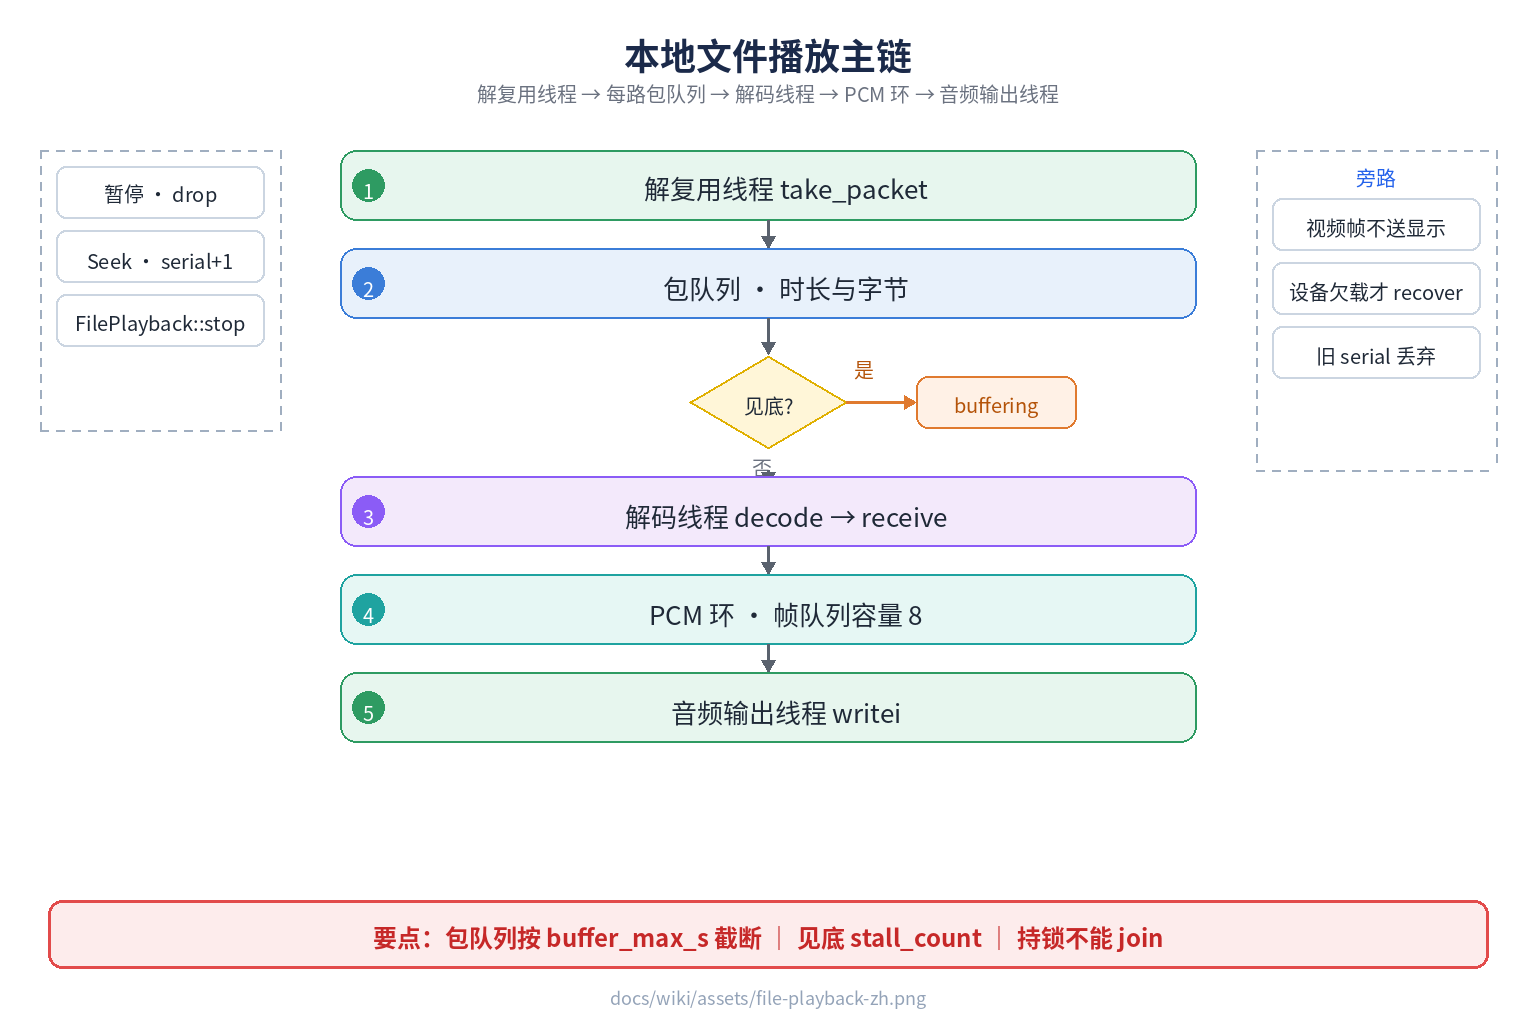
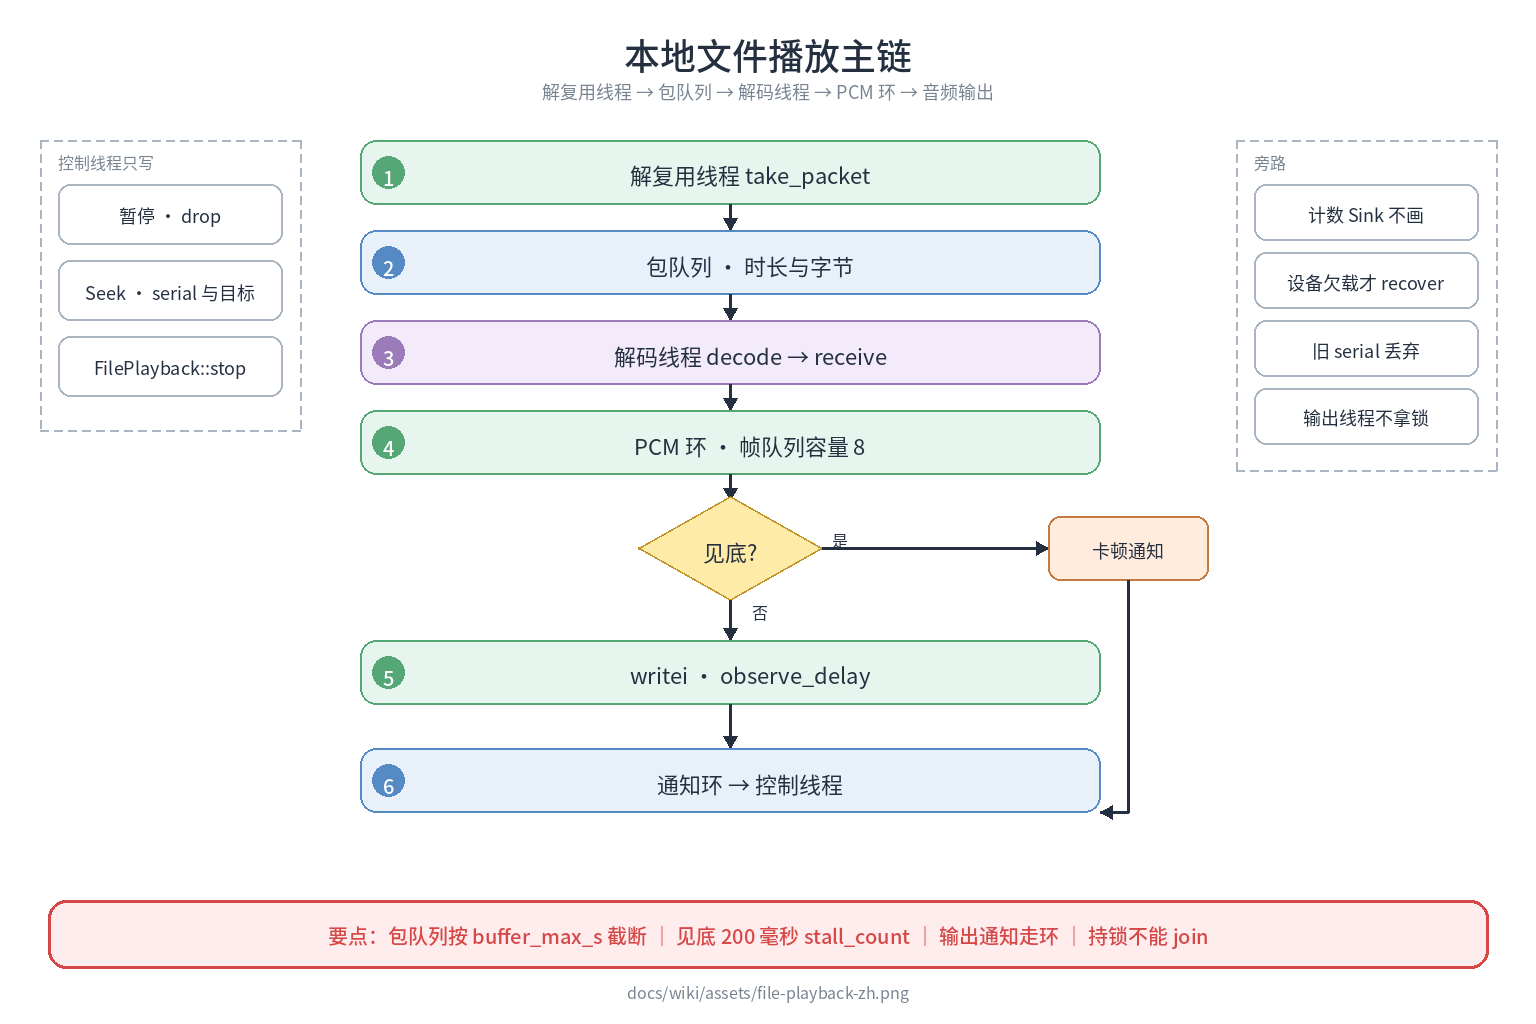
按注入后的管线改写 README 和主链详流。
见底画在输出线程上，空 URI 在进入本地路径判断之前失败。

diff --git a/docs/wiki/pages/file-playback.html b/docs/wiki/pages/file-playback.html
@@ -1,14 +1,14 @@
 <section class="page" data-id="file-playback" data-group="流程" data-title="本地播放">
   <div class="card">
     <h2>本地文件播放</h2>
-    <p class="lede">管线为 <code>FileSource</code> → <code>FFmpegDemuxer</code> → 每路包队列 → <code>FFmpegSwDecoder</code> → PCM 环或帧队列 → 音频输出线程。打开在会话 IO 线程上。控制线程只改标志。</p>
+    <p class="lede">管线为 <code>FileSource</code> → <code>FFmpegDemuxer</code> → 每路包队列 → <code>FFmpegSwDecoder</code> → PCM 环或帧队列 → 音频输出线程。打开在会话 IO 线程上。<code>Player::io_main</code> 注入 <code>AudioMasterClock</code> 和 <code>AlsaSink</code>；没有音频流时改为 <code>MonotonicClock</code>。控制线程只写 <code>serial</code> 和目标位置。</p>
     <h3>1. 打开与队列</h3>
-    <p><code>FFmpegDemuxer</code> 使用 <code>AVFMT_FLAG_CUSTOM_IO</code>，字节来自 <code>DataSource</code>。解复用线程按流把包放进队列。时长上限是预设的 <code>buffer_max_s</code>，字节上限是这个秒数乘以 1 MiB/s。视频帧队列容量 8。包和帧带 <code>serial</code>。存在音频流时必须打开 ALSA PCM 设备，输出为交错 S16。视频帧不送显示 Sink。</p>
+    <p><code>FFmpegDemuxer</code> 使用 <code>AVFMT_FLAG_CUSTOM_IO</code>，字节来自 <code>DataSource</code>。解复用线程按流把包放进队列。时长上限是预设的 <code>buffer_max_s</code>，字节上限是这个秒数乘以 1 MiB/s。视频帧队列容量 8。包和帧带 <code>serial</code>。存在音频流时必须打开 ALSA PCM 设备，输出为交错 S16。视频帧交给 <code>CountingVideoSink</code>，只计数，不画。</p>
     <h3>2. 主时钟与流结束</h3>
-    <p>音频输出线程从 PCM 环取出样本再写入设备。音频主时钟为 <code>origin_us + (written_frames - snd_pcm_delay) * 1000000 / rate</code>。首次写入成功调用 <code>media_first_frame</code>。EOF 之后取出重采样残余样本，再 <code>snd_pcm_drain</code>。drain 期间若暂停或 Seek 已经置位，不发送 EOS。</p>
+    <p>音频输出线程从 PCM 环取出样本再写入设备。主时钟只在 <code>AudioMasterClock::observe_delay</code> 计算，公式是 <code>origin_us + (written_frames - delay_frames) * 1000000 / rate</code>。首次写入成功后，输出线程把首帧写入通知环，控制线程调用 <code>media_first_frame</code>。EOF 之后取出重采样残余样本，再 <code>snd_pcm_drain</code>。drain 期间若暂停或 Seek 已经置位，不发送 EOS。输出线程看到新 <code>serial</code> 后清零写入帧数和首帧标记。</p>
     <h3>3. 传输控制</h3>
-    <p>暂停调用 <code>AlsaSink::drop</code>。设备欠载才 <code>snd_pcm_recover</code>。包队列见底时 <code>state</code> 变为 <code>buffering</code>，<code>stall_count</code> 加一。<code>FilePlayback::stop</code> 不能在持有 <code>Player::mu_</code> 时执行，因为音频输出线程回调 <code>media_first_frame</code> 需要同一把锁。</p>
-    <p class="src"><code>FilePlayback::open</code> · <code>run</code> · <code>stop</code> · <code>engine/src/file_playback.cpp</code></p>
+    <p>暂停调用 <code>AudioSink::drop</code>。设备欠载才 <code>snd_pcm_recover</code>。包队列见底时输出线程写入卡顿通知，控制线程把 <code>state</code> 变为 <code>buffering</code>，<code>stall_count</code> 加一。<code>FilePlayback::stop</code> 不能在持有 <code>Player::mu_</code> 时执行，因为解复用线程调用 <code>media_failed</code> 需要同一把锁。输出线程不拿这把锁。</p>
+    <p class="src"><code>FilePlayback::open</code> · <code>audio_out_main</code> · <code>stop</code> · <code>engine/src/file_playback.cpp</code></p>
   </div>
   <figure class="figure">
     <img src="assets/file-playback-zh.png" alt="本地文件播放主链" width="1536" height="1024" />

diff --git a/docs/wiki/pages/session-entry.html b/docs/wiki/pages/session-entry.html
@@ -3,7 +3,7 @@
     <h2>会话入口</h2>
     <p class="lede"><code>legato_player_load</code> 经 <code>Engine::post</code> 入队后返回。返回值 0 表示命令已受理，不表示媒体已经打开。打开在会话 IO 线程上执行，不持有 <code>Engine::mu_</code> 或 <code>Player::mu_</code>。</p>
     <h3>1. 分发</h3>
-    <p>控制线程上的 <code>Player::begin_load_locked</code> 读取 <code>legato_media_item.uri</code>。<code>corpus:</code> 先由 <code>resolve_corpus</code> 核对内容哈希，再排队打开，时钟为虚拟媒体时钟。<code>file://</code> 与无 scheme 的路径经 <code>local_file_path</code> 排队打开，时钟为音频主时钟。其它带 <code>://</code> 的 scheme 将 <code>state</code> 置为 <code>error</code>，错误名 <code>unsupported_scheme</code>，<code>message</code> 为「这个协议还不能播」。</p>
+    <p>控制线程上的 <code>Player::begin_load_locked</code> 读取 <code>legato_media_item.uri</code>。<code>corpus:</code> 先由 <code>resolve_corpus</code> 核对内容哈希，再排队打开，时钟为虚拟媒体时钟。<code>file://</code> 与无 scheme 的路径经 <code>local_file_path</code> 排队打开。<code>Player::io_main</code> 注入 <code>AudioMasterClock</code>；打开后没有音频流则改为 <code>MonotonicClock</code>。其它带 <code>://</code> 的 scheme 将 <code>state</code> 置为 <code>error</code>，错误名 <code>unsupported_scheme</code>，<code>message</code> 为「这个协议还不能播」。</p>
     <h3>2. 打开结果</h3>
     <p>排队时 <code>state=loading</code>，并发出 <code>state_changed</code>。IO 线程调用 <code>FilePlayback::open</code>。完成后控制线程执行 <code>finish_open_job</code>：成功则在 <code>playing_intent_</code> 已置位时 <code>start</code>，并发送 <code>command_done</code>；失败则 <code>state=error</code>。空 URI、超长路径分别对应「uri 为空」和「路径太长」。<code>legato_player_release</code> 只标记并投递回收，join 在回收线程上，调用线程立即返回。事件环不覆盖 <code>error</code>、<code>ended</code>、<code>first_frame</code>、<code>state_changed</code>。Seek 与同一属性的 <code>property_changed</code> 各自合并。<code>observe</code> 由控制线程按间隔轮询。</p>
     <p class="src"><code>Player::begin_load_locked</code> · <code>local_file_path</code> · <code>resolve_corpus</code> · <code>engine/src/player.cpp</code></p>

diff --git a/docs/wiki/pages/deterministic.html b/docs/wiki/pages/deterministic.html
@@ -1,9 +1,9 @@
 <section class="page" data-id="deterministic" data-group="流程" data-title="确定性回归">
   <div class="card">
     <h2>确定性回归</h2>
-    <p class="lede"><code>corpus://</code> 先核对 <code>testdata/corpus.yaml</code> 的内容哈希，再经 <code>FileSource</code> 进入 <code>FilePlayback</code>。解复用线程把包放进每路队列。该路径不打开 ALSA PCM 设备。音频由 <code>NullAudioSink</code> 按虚拟媒体时钟从 PCM 环消费，呈现记录由 <code>RecordingVideoSink</code> 写入。</p>
+    <p class="lede"><code>corpus://</code> 先核对 <code>testdata/corpus.yaml</code> 的内容哈希，再经 <code>FileSource</code> 进入 <code>FilePlayback</code>。解复用线程把包放进每路队列。该路径不打开 ALSA PCM 设备。<code>Player::io_main</code> 注入 <code>VirtualClock</code>、<code>NullAudioSink</code> 和 <code>RecordingVideoSink</code>。挑帧在 <code>VideoPresenter::present_until</code>。</p>
     <h3>1. 虚拟媒体时钟</h3>
-    <p><code>begin_load_locked</code> 将 <code>state</code> 置为 <code>loading</code>，并把打开交给会话 IO 线程。时钟只在 <code>legato_engine_advance_us</code> 被调用时前进，内部按 16667 微秒的垂直同步量化。第一帧在第一次同步呈现，<code>first_frame.us</code> 为 16667，与解码耗时无关。</p>
+    <p><code>begin_load_locked</code> 将 <code>state</code> 置为 <code>loading</code>，并把打开交给会话 IO 线程。时钟只在 <code>legato_engine_advance_us</code> 被调用时前进，内部按 16667 微秒的垂直同步量化。<code>NullAudioSink::write_frames</code> 消费 PCM，样本位置经 <code>AudioMasterClock::observe_delay</code> 计算。第一帧在第一次同步呈现，<code>first_frame.us</code> 为 16667，与解码耗时无关。</p>
     <h3>2. 基线</h3>
     <p><code>legato-bench</code> 将结果与 <code>bench/golden/</code> 比对。结果字段 <code>model</code> 的字面量是 <code>pipeline</code>。基线含呈现 PTS 序列哈希 <code>presentation_sha256</code>。进入稳态后 <code>alloc_steady</code> 的门禁为 0，只统计 <code>tracked_malloc</code>。丢掉一帧时 T1 必须失败。</p>
     <p class="src"><code>resolve_corpus</code> · <code>NullAudioSink</code> · <code>RecordingVideoSink</code> · <code>bench/golden/</code></p>

diff --git a/docs/wiki/pages/overview.html b/docs/wiki/pages/overview.html
@@ -5,7 +5,7 @@
     <h3>1. 怎么读</h3>
     <p>每一张图中间是一条从上到下的主链。左栏是入口或本路径不创建的对象，右栏是失败与旁路，底栏是必须记住的不变量。图上的符号与代码一致；过期时以代码为准。</p>
     <h3>2. 三条主链</h3>
-    <p><a href="#session-entry">会话入口</a>说明 <code>legato_player_load</code> 入队后返回，打开在会话 IO 线程上完成。<a href="#file-playback">本地播放</a>是 <code>FileSource</code> → <code>FFmpegDemuxer</code> → 每路包队列 → <code>FFmpegSwDecoder</code> → PCM 环或帧队列 → 音频输出线程。<a href="#deterministic">确定性回归</a>走同一条管线，时钟换成虚拟媒体时钟，音频换成 <code>NullAudioSink</code>，视频记录换成 <code>RecordingVideoSink</code>。</p>
+    <p><a href="#session-entry">会话入口</a>说明 <code>legato_player_load</code> 入队后返回，打开在会话 IO 线程上完成。<a href="#file-playback">本地播放</a>是 <code>FileSource</code> → <code>FFmpegDemuxer</code> → 每路包队列 → <code>FFmpegSwDecoder</code> → PCM 环或帧队列 → 音频输出线程。<a href="#deterministic">确定性回归</a>走同一条管线。<code>Player::io_main</code> 注入虚拟媒体时钟、<code>NullAudioSink</code> 和 <code>RecordingVideoSink</code>。</p>
     <p class="src">字段与构建见仓库 <code>README.md</code>。图的绘制约束见 <code>.cursor/skills/legato-writing/SKILL.md</code>。</p>
   </div>
 </section>
